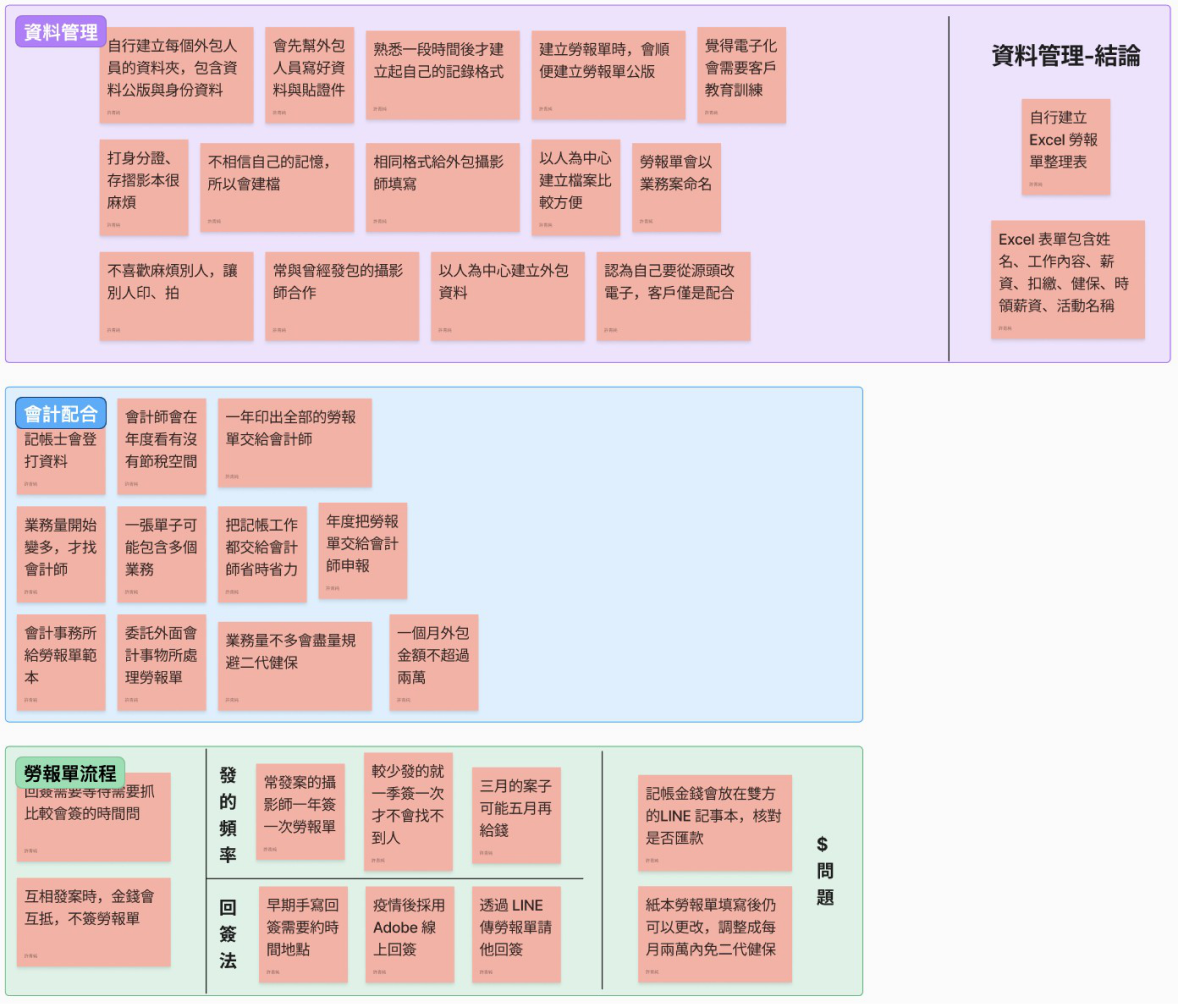
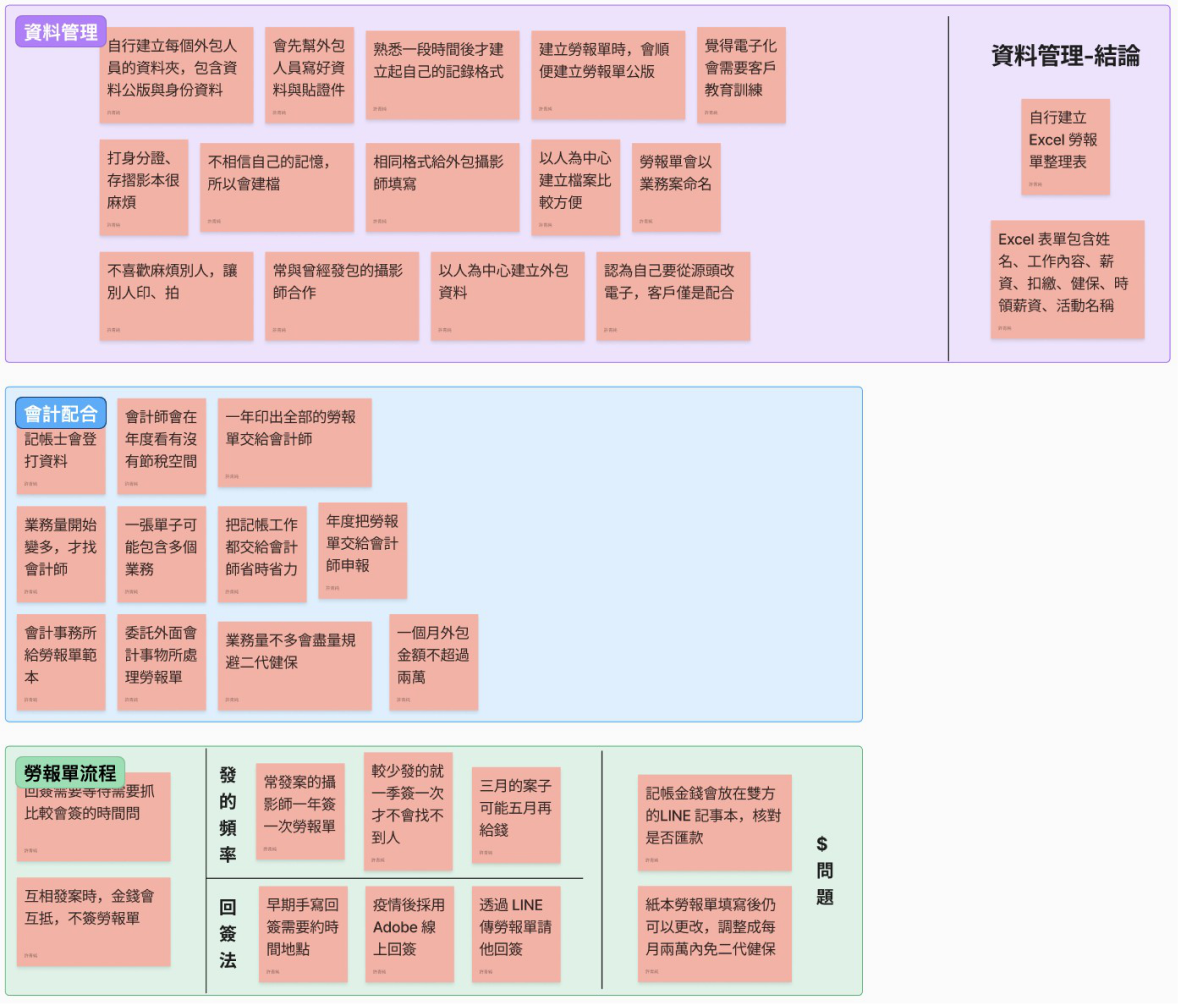
feat(laushu): add all three interviewee syntheses with intro copy
Expand the single P1 persona into P1/P2/P3 cards (same format) with an
intro lead-in, using affinity-board syntheses exported from Figma. Boards
are now click-to-zoom. Full zh-TW/en translations added.

diff --git a/app/laushu/page.tsx b/app/laushu/page.tsx
@@ -116,6 +116,36 @@ const interviewGuide = [
   },
 ];
 
+const personas = [
+  {
+    name: "P1 攝影工作室老闆",
+    tags: "#許多外包工作 #有長期配合的人員",
+    desc: "老闆會自己整理每個外包人員專屬的資料夾，存放勞報單與過去的資料，就像自己建置了一套資料庫。",
+    image: `${IMG}/interviewee-p1.png`,
+    alt: "Laushu 訪談者一 攝影工作室老闆訪談整理",
+    width: 1178,
+    height: 1004,
+  },
+  {
+    name: "P2 節目企劃",
+    tags: "#有長期配合的人員 #臨時工讀生",
+    desc: "對他來說最麻煩的是工讀生很容易忘記帶勞報單；要簽收還得備齊身分證、存摺等證件，常常缺東缺西。",
+    image: `${IMG}/interviewee-p2.png`,
+    alt: "Laushu 訪談者二 節目企劃訪談整理",
+    width: 1178,
+    height: 965,
+  },
+  {
+    name: "P3 會計師",
+    tags: "#有許多配合的公司 #一年收一次勞報單",
+    desc: "因為一年只收一次，很容易發生檔案遺失或忘記存檔的狀況；對他來說，怎麼減少會計師與公司之間的隔閡才是重點。",
+    image: `${IMG}/interviewee-p3.png`,
+    alt: "Laushu 訪談者三 會計師訪談整理",
+    width: 1031,
+    height: 881,
+  },
+];
+
 const keyFlows = [
   { title: "Flow 1：建立外包人員資料庫", body: "便於掌管人員個人資料，日後有需求可立即找人。" },
   { title: "Flow 2：建立勞務報酬單", body: "發送系統連結給外包人員填寫資料 / 回簽。" },
@@ -360,13 +390,26 @@ function UnderstandSection() {
         ))}
       </div>
 
-      <div className="laushu-persona">
-        <div className="laushu-persona-copy">
-          <strong>P1 攝影工作室老闆</strong>
-          <span className="laushu-persona-tags">#許多外包工作 #有長期配合的人員</span>
-          <p>老闆會自己整理每個外包人員專屬的資料夾，存放勞報單與過去的資料，就像自己建置了一套資料庫。</p>
-        </div>
-        <ImageBlock src={`${IMG}/interviewee-p1.png`} alt="Laushu 訪談者一資料整理" />
+      <ArticleBlock title="三位受訪者的訪談整理" kicker="摘要">
+        <p>下面整理三位受訪者的訪談摘要，從資料管理、會計配合到勞報單流程，盤點他們各自的經手方式與最有感的痛點。</p>
+      </ArticleBlock>
+      <div className="laushu-persona-list">
+        {personas.map((p) => (
+          <div className="laushu-persona" key={p.name}>
+            <div className="laushu-persona-copy">
+              <strong>{p.name}</strong>
+              <span className="laushu-persona-tags">{p.tags}</span>
+              <p>{p.desc}</p>
+            </div>
+            <ZoomableImage
+              src={p.image}
+              alt={p.alt}
+              width={p.width}
+              height={p.height}
+              labels={{ close: "關閉放大圖片", separator: "：", zoom: "點擊放大" }}
+            />
+          </div>
+        ))}
       </div>
     </CaseSection>
   );

diff --git a/app/laushu/i18n.ts b/app/laushu/i18n.ts
@@ -187,6 +187,21 @@ const en = {
   "#許多外包工作 #有長期配合的人員": "#Lots of outsourcing #Long-term partners",
   "老闆會自己整理每個外包人員專屬的資料夾，存放勞報單與過去的資料，就像自己建置了一套資料庫。":
     "The owner organizes a dedicated folder for each contractor to store forms and past records — essentially building their own database by hand.",
+  "三位受訪者的訪談整理": "Synthesis of the three interviews",
+  "摘要": "Summary",
+  "下面整理三位受訪者的訪談摘要，從資料管理、會計配合到勞報單流程，盤點他們各自的經手方式與最有感的痛點。":
+    "Below is a synthesis of the three interviews — covering data management, working with accountants, and the labor-form flow — capturing how each person handles things and the pain points they feel most.",
+  "P2 節目企劃": "P2 Program planner",
+  "#有長期配合的人員 #臨時工讀生": "#Long-term partners #Temp part-timers",
+  "對他來說最麻煩的是工讀生很容易忘記帶勞報單；要簽收還得備齊身分證、存摺等證件，常常缺東缺西。":
+    "His biggest headache is that part-timers easily forget to bring their forms — and signing off requires documents like ID cards and bankbooks, which often end up missing.",
+  "P3 會計師": "P3 Accountant",
+  "#有許多配合的公司 #一年收一次勞報單": "#Many client companies #Collects forms once a year",
+  "因為一年只收一次，很容易發生檔案遺失或忘記存檔的狀況；對他來說，怎麼減少會計師與公司之間的隔閡才是重點。":
+    "Because forms are collected only once a year, files easily get lost or go unsaved — so for him, the key is reducing the gap between accountants and companies.",
+  "Laushu 訪談者一 攝影工作室老闆訪談整理": "Laushu interviewee 1 — photography studio owner synthesis",
+  "Laushu 訪談者二 節目企劃訪談整理": "Laushu interviewee 2 — program planner synthesis",
+  "Laushu 訪談者三 會計師訪談整理": "Laushu interviewee 3 — accountant synthesis",
 
   // ── Converge ──
   "彙整流程 & 重塑 TA": "Mapping the flow & reframing the TA",

diff --git a/styles/case-study-laushu.css b/styles/case-study-laushu.css
@@ -567,7 +567,7 @@
 .theme-laushu .laushu-process-section > .laushu-table-wrap,
 .theme-laushu .laushu-process-section > .laushu-survey-flow,
 .theme-laushu .laushu-process-section > .laushu-guide-grid,
-.theme-laushu .laushu-process-section > .laushu-persona,
+.theme-laushu .laushu-process-section > .laushu-persona-list,
 .theme-laushu .laushu-process-section > .laushu-journey,
 .theme-laushu .laushu-process-section > .laushu-flow-group,
 .theme-laushu .laushu-process-section > .laushu-usecase-grid {
@@ -738,9 +738,28 @@
   line-height: 1.6;
 }
 
-/* Persona 文字欄 */
+/* Persona 文字欄 + 三位受訪者整理板 */
 .theme-laushu .laushu-persona-tags {
   margin-bottom: 12px;
+}
+
+.theme-laushu .laushu-persona-list {
+  display: grid;
+  gap: 24px;
+  max-width: 1440px;
+  margin: 0 auto;
+}
+
+.theme-laushu .laushu-persona .cs-zoomable-image {
+  width: 100%;
+  border-radius: 12px;
+  overflow: hidden;
+}
+
+.theme-laushu .laushu-persona .cs-zoomable-image img {
+  display: block;
+  width: 100%;
+  height: auto;
 }
 
 /* Journey 板（保留為可放大圖） */
